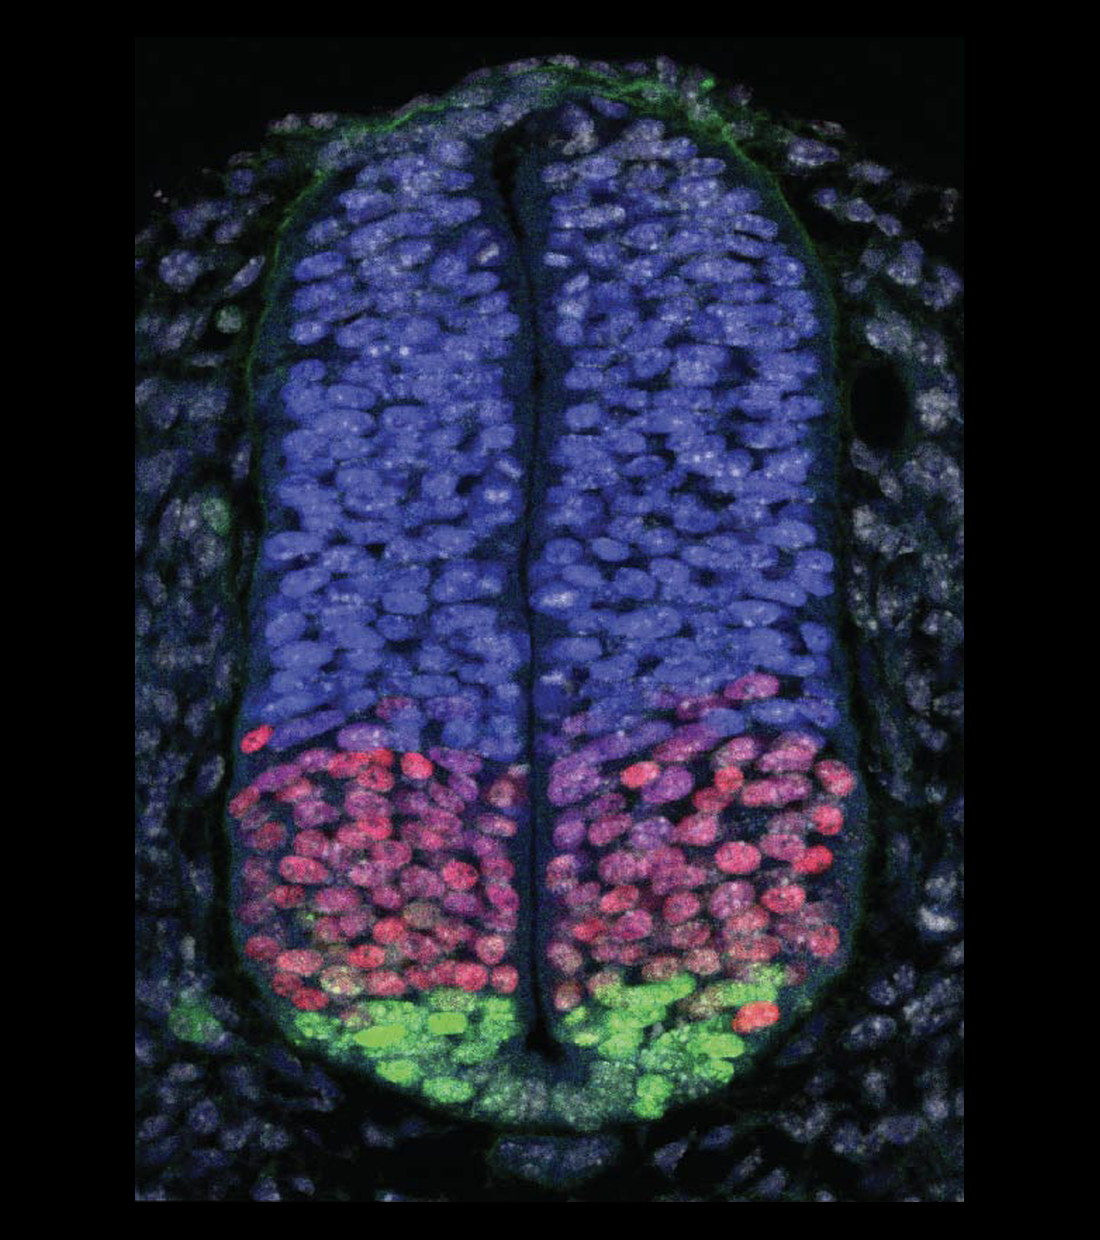
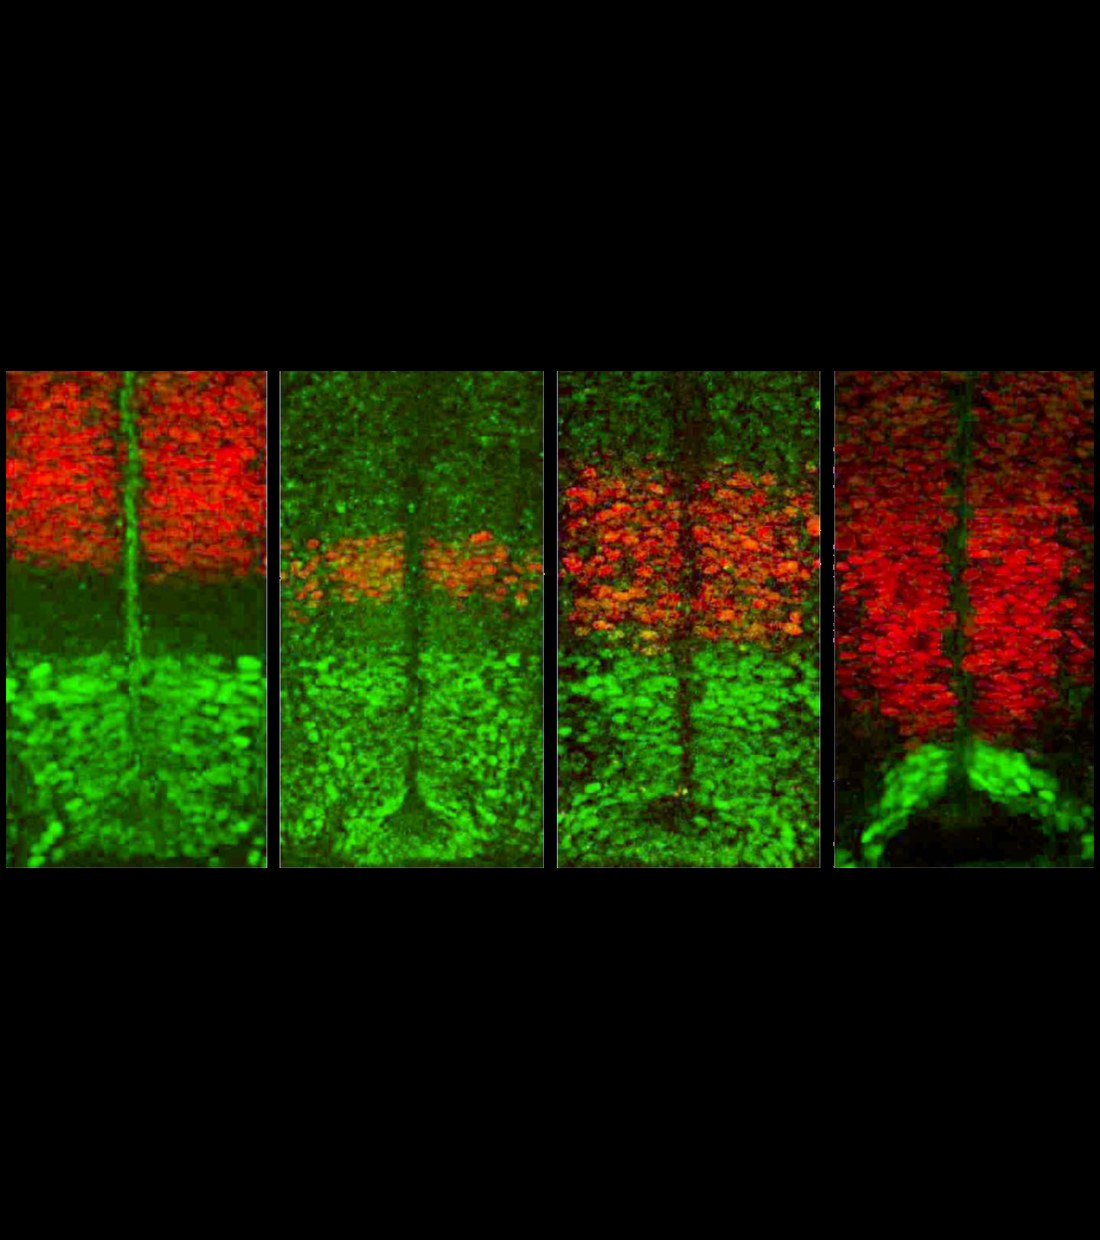
Homepage: cross-fading hero with wrapping drift, stronger scroll reveal
- hero cycles four dark-field frames, each tiled so the drift wraps seamlessly
- first frame rebuilt from the four-panel sections with equal black separators
- research cards lift on hover; sections rise further into view
- removed the interactive neural tube

diff --git a/index.html b/index.html
@@ -15,8 +15,42 @@
 <link rel="stylesheet" href="assets/style.css">
 </head>
 <body>
-<a class="skip" href="#main">Skip to content</a><header><div class="bar"><a class="mark brand" href="index.html"><img class="mark-logo" src="images/logo-176.png" alt="" width="150" height="176"><span>Briscoe Lab<em>Developmental Dynamics of Tissue Formation</em></span></a><button class="burger" id="burger" aria-expanded="false" aria-controls="nav">Menu</button><nav id="nav" aria-label="Main"><ul><li class="dd"><a href="research.html">Research</a><ul><li><a href="research-gene-regulatory-networks.html">Gene regulatory networks</a></li><li><a href="research-gene-regulation.html">Gene regulation</a></li><li><a href="research-tempo-growth-and-lineage.html">Tempo, growth and lineage</a></li><li><a href="research-stem-cells-and-bioengineering.html">Stem cells and bioengineering</a></li><li><a href="research-computational-approaches.html">Computational approaches</a></li></ul></li><li class="dd"><a href="people.html">People</a><ul><li><a href="people.html">Current members</a></li><li><a href="alumni.html">Alumni</a></li></ul></li><li><a href="publications.html">Publications</a></li><li><a href="resources.html">Resources</a></li><li><a href="join-us.html">Join us</a></li><li><a href="blog.html">Blog</a></li><li><a href="contact.html">Contact</a></li></ul></nav></div></header><main id="main"><div class="hero"><picture><source media="(max-width:700px)" srcset="images/hero-mobile.jpg"><source srcset="images/hero-1280.jpg 1280w, images/hero.jpg 2560w" sizes="100vw"><img src="images/hero.jpg" alt="Transverse section through the neural tube of an embryonic day 9.5 mouse. Three greyscale channels resolve into a merged image showing Pax6 in blue, Olig2 in red and Nkx2.2 in green, arranged in bands along the dorsal to ventral axis" width="2560" height="948"></picture><div class="veil"></div><div class="in"><div class="wrap"><div style="max-width:620px"><h1>How does an embryo build a nervous system?</h1><p>We study how cells in a developing tissue acquire the right identity, in the right place, at the right time, and in the right numbers.</p><p style="margin:0"><a class="btn btn--light" href="research.html">Our research</a> <a class="btn btn--outline-light" href="join-us.html">Join the lab</a></p></div></div></div></div><section class="sec"><div class="wrap"><div class="prose"><p class="eyebrow">What we do</p><p class="lede">Our lab works on one of the fundamental questions in biology: how do cells in a developing tissue acquire the right identity, at the right place, at the right time, and in the right proportions?</p><p>We investigate how gene regulatory networks direct tissue formation, using the vertebrate spinal cord as our main model system. We combine developmental biology, genomics, bioengineering and computational modelling to understand how specific cell types are generated, how functional tissues are assembled, and how system-level properties such as pattern, tempo, precision and morphogenesis emerge from molecular mechanisms.</p><p>The goal is to explain neural tube formation across scales, from molecular mechanism to cell behaviour to tissue organisation. This is one of the grand challenges of systems developmental biology: reverse-engineering a developing tissue in enough detail to predict and control its formation. We now test that understanding by building. We design regulatory DNA to specification, produce morphogen gradients with light, and grow spinal cord tissue from stem cells.</p></div></div></section><section class="sec shell"><div class="wrap"><h2>Research</h2><p class="muted" style="margin-bottom:40px">Five connected questions, one tissue.</p><div class="grid g3"><article class="card"><img src="images/card-grn.jpg" alt="" loading="lazy" width="800" height="600"><div class="card-b"><h3>Gene regulatory networks</h3><p>Groups of transcription factors, wired into a network, decide which type of cell each neural progenitor becomes. We are mapping the network and asking how gradients of signals such as Sonic Hedgehog control it over time.</p><a class="go" href="research-gene-regulatory-networks.html">Read more &rarr;</a></div></article><article class="card"><img src="images/card-generegulation.jpg" alt="" loading="lazy" width="800" height="600"><div class="card-b"><h3>Gene regulation</h3><p>Cis-regulatory elements are the stretches of DNA that determine when and where genes switch on and off. We are working out the rules they follow and testing those rules by building new elements from scratch.</p><a class="go" href="research-gene-regulation.html">Read more &rarr;</a></div></article><article class="card"><img src="images/card-tempo.jpg" alt="" loading="lazy" width="800" height="600"><div class="card-b"><h3>Tempo, growth and lineage</h3><p>Development runs to a schedule and the schedule differs between species. We study what sets the pace, how the time of neuronal generation affects cell type and how lineage determines what each progenitor can make.</p><a class="go" href="research-tempo-growth-and-lineage.html">Read more &rarr;</a></div></article></div><div class="grid g3" style="margin-top:28px"><article class="card"><img src="images/card-stemcells.jpg" alt="" loading="lazy" width="800" height="600"><div class="card-b"><h3>Stem cells and bioengineering</h3><p>We build spinal cord tissue outside the embryo, from stem cells, then control the signals it receives. Reconstructing a tissue from its parts is the strongest test of whether we understand how embryos form.</p><a class="go" href="research-stem-cells-and-bioengineering.html">Read more &rarr;</a></div></article><article class="card"><img src="images/card-computational.jpg" alt="" loading="lazy" width="800" height="600"><div class="card-b"><h3>Computational approaches</h3><p>Embryos are dynamical systems. We build models that explain how cells choose fates, and methods that recover those dynamics from the data single-cell experiments produce.</p><a class="go" href="research-computational-approaches.html">Read more &rarr;</a></div></article></div></div></section><section class="sec"><div class="wrap"><div class="prose"><p class="eyebrow">Why it matters</p><p class="lede" style="margin:0">Answering these questions links genotype to phenotype and explains how structure relates to function in the nervous system. It also lays the foundations needed to engineer tissues, model disease and advance regenerative medicine.</p></div></div></section><section class="sec shell"><div class="wrap"><h2 style="margin-bottom:14px">Recent papers</h2><div class="pub"><div class="au">Maizels RJ, Briscoe J</div><div class="ti">Gene regulatory networks: from correlative models to causal explanations</div><div class="jr">Nature Reviews Genetics 27:485-498 (2026)</div></div><div class="pub"><div class="au">Stuart HT, Costantini E, Wang J, et al., Tanaka EM, Briscoe J</div><div class="ti">Minimal essential requirements for neural tube self-organisation</div><div class="jr">bioRxiv (2026)</div><div class="ln"><a class="tag" href="https://doi.org/10.64898/2026.06.06.730555">bioRxiv</a></div></div><div class="pub"><div class="au">Boezio GLM, Depotter JRL, Frith TJR, et al., Briscoe J</div><div class="ti">Hierarchical lineage architecture of human and avian spinal cord revealed by single-cell genomic barcoding</div><div class="jr">bioRxiv (2025)</div></div><div class="pub"><div class="au">Benzinger D, Briscoe J</div><div class="ti">Investigating morphogen and patterning dynamics with optogenetic control of morphogen production</div><div class="jr">Developmental Cell 60:3421-3430 (2025)</div></div><p style="margin-top:26px"><a href="publications.html">All 121 publications &rarr;</a></p></div></section><section class="sec"><div class="wrap"><div class="grid g2" style="gap:56px;align-items:center"><img src="images/group-photo.jpg" alt="Members of the Briscoe lab standing together outdoors in a garden, with trees and shrubs behind them" style="height:320px;width:100%;object-fit:cover;border-radius:6px" loading="lazy" width="808" height="468"><div><h2 style="margin-bottom:18px">Join us</h2><p>We are always interested in hearing from prospective PhD students and postdocs, whatever your background: wet lab, computational, physical or somewhere in between.</p><p style="margin:0"><a class="btn" href="join-us.html">How to apply</a></p></div></div></div></section></main>
+<a class="skip" href="#main">Skip to content</a><header><div class="bar"><a class="mark brand" href="index.html"><img class="mark-logo" src="images/logo-176.png" alt="" width="150" height="176"><span>Briscoe Lab<em>Developmental Dynamics of Tissue Formation</em></span></a><button class="burger" id="burger" aria-expanded="false" aria-controls="nav">Menu</button><nav id="nav" aria-label="Main"><ul><li class="dd"><a href="research.html">Research</a><ul><li><a href="research-gene-regulatory-networks.html">Gene regulatory networks</a></li><li><a href="research-gene-regulation.html">Gene regulation</a></li><li><a href="research-tempo-growth-and-lineage.html">Tempo, growth and lineage</a></li><li><a href="research-stem-cells-and-bioengineering.html">Stem cells and bioengineering</a></li><li><a href="research-computational-approaches.html">Computational approaches</a></li></ul></li><li class="dd"><a href="people.html">People</a><ul><li><a href="people.html">Current members</a></li><li><a href="alumni.html">Alumni</a></li></ul></li><li><a href="publications.html">Publications</a></li><li><a href="resources.html">Resources</a></li><li><a href="join-us.html">Join us</a></li><li><a href="blog.html">Blog</a></li><li><a href="contact.html">Contact</a></li></ul></nav></div></header><main id="main"><div class="hero" id="hero"><div class="hero-frame is-on"><div class="hero-track"><picture><source media="(max-width:700px)" srcset="images/hero-mobile.jpg"><source srcset="images/hero-1280.jpg 1280w, images/hero.jpg 2560w" sizes="100vw"><img src="images/hero.jpg" alt="Transverse sections of the neural tube showing progenitors expressing a combination of transcription factors including Pax6, Nkx6.1, Nkx2.2, Dbx1 and Dbx2." width="2560" height="1156"></picture><picture aria-hidden="true"><source media="(max-width:700px)" srcset="images/hero-mobile.jpg"><source srcset="images/hero-1280.jpg 1280w, images/hero.jpg 2560w" sizes="100vw"><img src="images/hero.jpg" alt="Transverse sections of the neural tube showing progenitors expressing a combination of transcription factors including Pax6, Nkx6.1, Nkx2.2, Dbx1 and Dbx2." width="2560" height="1156"></picture></div></div><div class="hero-frame"><div class="hero-track"><img data-src="images/hero-2.jpg" alt="" width="1920" height="711" decoding="async"><img data-src="images/hero-2.jpg" alt="" width="1920" height="711" decoding="async" aria-hidden="true"></div></div><div class="hero-frame"><div class="hero-track"><img data-src="images/hero-3.jpg" alt="" width="1920" height="711" decoding="async"><img data-src="images/hero-3.jpg" alt="" width="1920" height="711" decoding="async" aria-hidden="true"></div></div><div class="hero-frame"><div class="hero-track"><img data-src="images/hero-4.jpg" alt="" width="1920" height="711" decoding="async"><img data-src="images/hero-4.jpg" alt="" width="1920" height="711" decoding="async" aria-hidden="true"></div></div><div class="veil"></div><div class="in"><div class="wrap"><div style="max-width:620px"><h1>How does an embryo build a nervous system?</h1><p>We study how cells in a developing tissue acquire the right identity, in the right place, at the right time, and in the right numbers.</p><p style="margin:0"><a class="btn btn--light" href="research.html">Our research</a> <a class="btn btn--outline-light" href="join-us.html">Join the lab</a></p></div></div></div></div><section class="sec reveal"><div class="wrap"><div class="prose"><p class="eyebrow">What we do</p><p class="lede">Our lab works on one of the fundamental questions in biology: how do cells in a developing tissue acquire the right identity, at the right place, at the right time, and in the right proportions?</p><p>We investigate how gene regulatory networks direct tissue formation, using the vertebrate spinal cord as our main model system. We combine developmental biology, genomics, bioengineering and computational modelling to understand how specific cell types are generated, how functional tissues are assembled, and how system-level properties such as pattern, tempo, precision and morphogenesis emerge from molecular mechanisms.</p><p>The goal is to explain neural tube formation across scales, from molecular mechanism to cell behaviour to tissue organisation. This is one of the grand challenges of systems developmental biology: reverse-engineering a developing tissue in enough detail to predict and control its formation. We now test that understanding by building. We design regulatory DNA to specification, produce morphogen gradients with light, and grow spinal cord tissue from stem cells.</p></div></div></section><section class="sec shell reveal"><div class="wrap"><h2>Research</h2><p class="muted" style="margin-bottom:40px">Five connected questions, one tissue.</p><div class="grid g3"><article class="card"><img src="images/card-grn.jpg" alt="" loading="lazy" width="800" height="600"><div class="card-b"><h3>Gene regulatory networks</h3><p>Groups of transcription factors, wired into a network, decide which type of cell each neural progenitor becomes. We are mapping the network and asking how gradients of signals such as Sonic Hedgehog control it over time.</p><a class="go" href="research-gene-regulatory-networks.html">Read more &rarr;</a></div></article><article class="card"><img src="images/card-generegulation.jpg" alt="" loading="lazy" width="800" height="600"><div class="card-b"><h3>Gene regulation</h3><p>Cis-regulatory elements are the stretches of DNA that determine when and where genes switch on and off. We are working out the rules they follow and testing those rules by building new elements from scratch.</p><a class="go" href="research-gene-regulation.html">Read more &rarr;</a></div></article><article class="card"><img src="images/card-tempo.jpg" alt="" loading="lazy" width="800" height="600"><div class="card-b"><h3>Tempo, growth and lineage</h3><p>Development runs to a schedule and the schedule differs between species. We study what sets the pace, how the time of neuronal generation affects cell type and how lineage determines what each progenitor can make.</p><a class="go" href="research-tempo-growth-and-lineage.html">Read more &rarr;</a></div></article></div><div class="grid g3" style="margin-top:28px"><article class="card"><img src="images/card-stemcells.jpg" alt="" loading="lazy" width="800" height="600"><div class="card-b"><h3>Stem cells and bioengineering</h3><p>We build spinal cord tissue outside the embryo, from stem cells, then control the signals it receives. Reconstructing a tissue from its parts is the strongest test of whether we understand how embryos form.</p><a class="go" href="research-stem-cells-and-bioengineering.html">Read more &rarr;</a></div></article><article class="card"><img src="images/card-computational.jpg" alt="" loading="lazy" width="800" height="600"><div class="card-b"><h3>Computational approaches</h3><p>Embryos are dynamical systems. We build models that explain how cells choose fates, and methods that recover those dynamics from the data single-cell experiments produce.</p><a class="go" href="research-computational-approaches.html">Read more &rarr;</a></div></article></div></div></section><section class="sec reveal"><div class="wrap"><div class="prose"><p class="eyebrow">Why it matters</p><p class="lede" style="margin:0">Answering these questions links genotype to phenotype and explains how structure relates to function in the nervous system. It also lays the foundations needed to engineer tissues, model disease and advance regenerative medicine.</p></div></div></section><section class="sec shell reveal"><div class="wrap"><h2 style="margin-bottom:14px">Recent papers</h2><div class="pub"><div class="au">Maizels RJ, Briscoe J</div><div class="ti">Gene regulatory networks: from correlative models to causal explanations</div><div class="jr">Nature Reviews Genetics 27:485-498 (2026)</div></div><div class="pub"><div class="au">Stuart HT, Costantini E, Wang J, et al., Tanaka EM, Briscoe J</div><div class="ti">Minimal essential requirements for neural tube self-organisation</div><div class="jr">bioRxiv (2026)</div><div class="ln"><a class="tag" href="https://doi.org/10.64898/2026.06.06.730555">bioRxiv</a></div></div><div class="pub"><div class="au">Boezio GLM, Depotter JRL, Frith TJR, et al., Briscoe J</div><div class="ti">Hierarchical lineage architecture of human and avian spinal cord revealed by single-cell genomic barcoding</div><div class="jr">bioRxiv (2025)</div></div><div class="pub"><div class="au">Benzinger D, Briscoe J</div><div class="ti">Investigating morphogen and patterning dynamics with optogenetic control of morphogen production</div><div class="jr">Developmental Cell 60:3421-3430 (2025)</div></div><p style="margin-top:26px"><a href="publications.html">All 121 publications &rarr;</a></p></div></section><section class="sec reveal"><div class="wrap"><div class="grid g2" style="gap:56px;align-items:center"><img src="images/group-photo.jpg" alt="Members of the Briscoe lab standing together outdoors in a garden, with trees and shrubs behind them" style="height:320px;width:100%;object-fit:cover;border-radius:6px" loading="lazy" width="808" height="468"><div><h2 style="margin-bottom:18px">Join us</h2><p>We are always interested in hearing from prospective PhD students and postdocs, whatever your background: wet lab, computational, physical or somewhere in between.</p><p style="margin:0"><a class="btn" href="join-us.html">How to apply</a></p></div></div></div></section></main>
 <footer><div class="wrap"><div class="grid g3" style="gap:44px"><div><img src="images/logo-176.png" alt="" width="150" height="176" style="height:64px;width:auto;margin-bottom:14px"><div class="fm">Briscoe Lab</div><p style="color:#8D8C8C;font-size:14.5px;margin-bottom:16px">Developmental Dynamics of Tissue Formation</p><p style="color:#8D8C8C;font-size:14px;line-height:1.7;margin:0">The Francis Crick Institute<br>1 Midland Road, London NW1 1AT</p></div><div><h2>Site</h2><ul><li><a href="research.html">Research</a></li><li><a href="people.html">People</a></li><li><a href="publications.html">Publications</a></li><li><a href="resources.html">Resources</a></li><li><a href="join-us.html">Join us</a></li><li><a href="blog.html">Blog</a></li><li><a href="contact.html">Contact</a></li></ul></div><div><h2>Elsewhere</h2><ul><li><a href="https://www.crick.ac.uk/research/labs/james-briscoe">Crick profile</a></li><li><a href="https://scholar.google.co.uk/citations?user=VJ83sekAAAAJ&amp;hl=en">Google Scholar</a></li><li><a href="https://orcid.org/0000-0002-1020-5240">ORCID</a></li><li><a href="https://github.com/briscoelab">GitHub</a></li></ul></div></div><p class="funding">Work in the lab is funded by the Francis Crick Institute, which receives its core funding from Cancer Research UK, the UK Medical Research Council and Wellcome. In addition, specific projects are funded by other organisations including the European Research Council, EMBO, BBSRC, and the Boehringer Ingelheim Foundation.</p><div class="fbar"><div>&copy; 2026 Briscoe Lab</div><div><a href="https://www.crick.ac.uk">The Francis Crick Institute</a></div></div></div></footer>
 <script>(function(){var b=document.getElementById('burger'),n=document.getElementById('nav');if(!b)return;b.addEventListener('click',function(){var o=n.classList.toggle('open');b.setAttribute('aria-expanded',o?'true':'false')})})();</script>
+<script>
+(function(){
+ var els=[].slice.call(document.querySelectorAll('.reveal'));
+ if(!els.length) return;
+ if(!('IntersectionObserver' in window) ||
+    window.matchMedia('(prefers-reduced-motion: reduce)').matches){
+  els.forEach(function(e){e.classList.add('in')}); return;
+ }
+ var io=new IntersectionObserver(function(en){
+  en.forEach(function(x){ if(x.isIntersecting){ x.target.classList.add('in'); io.unobserve(x.target); } });
+ },{rootMargin:'0px 0px -8% 0px',threshold:0.06});
+ els.forEach(function(e){io.observe(e)});
+})();
+</script>
+<script>
+(function(){
+ var h=document.getElementById('hero'); if(!h) return;
+ var f=[].slice.call(h.querySelectorAll('.hero-frame'));
+ if(f.length<2) return;
+ if(window.matchMedia('(prefers-reduced-motion: reduce)').matches) return;
+ if(window.matchMedia('(max-width:700px)').matches) return;
+ var i=0, t=null, ready=false;
+ function load(){
+  if(ready) return; ready=true;
+  h.querySelectorAll('img[data-src]').forEach(function(el){ el.src=el.getAttribute('data-src'); el.removeAttribute('data-src'); });
+ }
+ function step(){ f[i].classList.remove('is-on'); i=(i+1)%f.length; f[i].classList.add('is-on'); }
+ function start(){ if(!t) t=setInterval(step,7000); }
+ function stop(){ if(t){ clearInterval(t); t=null; } }
+ function go(){ load(); setTimeout(start,1500); }
+ if(document.readyState==='complete') go(); else window.addEventListener('load',go);
+ document.addEventListener('visibilitychange',function(){ document.hidden?stop():(ready&&start()); });
+})();
+</script>
 </body>
 </html>

diff --git a/assets/style.css b/assets/style.css
@@ -95,8 +95,39 @@ nav a[aria-current="page"],nav a.on{color:var(--accent);background:var(--shell)}
 .g2{grid-template-columns:repeat(2,minmax(0,1fr))}
 .g3{grid-template-columns:repeat(3,minmax(0,1fr))}
 .g4{grid-template-columns:repeat(4,minmax(0,1fr))}
-.card{border:1px solid var(--line);border-radius:8px;overflow:hidden;background:#fff;display:flex;flex-direction:column}
-.card>img{height:180px;width:100%;object-fit:cover}
+.card{border:1px solid var(--line);border-radius:8px;overflow:hidden;background:#fff;display:flex;flex-direction:column;
+  transition:transform .28s ease,box-shadow .28s ease,border-color .28s ease}
+.card:hover{transform:translateY(-3px);box-shadow:0 10px 26px rgba(20,24,28,.09);border-color:#D6D2D1}
+.card>img{height:180px;width:100%;object-fit:cover;transition:transform .55s ease}
+.card:hover>img{transform:scale(1.045)}
+
+/* sections rise into view; the reduced-motion block below disables this */
+.reveal{opacity:0;transform:translateY(38px) scale(.985);
+  transition:opacity .78s cubic-bezier(.16,.7,.28,1),transform .78s cubic-bezier(.16,.7,.28,1)}
+.reveal.in{opacity:1;transform:none}
+@media (prefers-reduced-motion: reduce){.reveal{opacity:1;transform:none}}
+
+/* Cross-fading hero frames that drift continuously.
+   Each frame holds two copies of its image side by side in a track. The track
+   travels exactly one image width and repeats, so the second copy lands where the
+   first began and the loop is invisible. The images have their left and right
+   edges faded to black, so the join between copies cannot be seen. */
+@keyframes heroWrap{from{transform:translateX(0)}to{transform:translateX(-50%)}}
+.hero-frame{position:absolute;inset:0;overflow:hidden;opacity:0;transition:opacity 1.9s ease-in-out}
+.hero-frame.is-on{opacity:1}
+.hero-track{position:absolute;top:0;left:0;height:100%;width:200%;display:flex}
+.hero-track>*{width:50%;height:100%;flex:none;position:relative}
+.hero-track img{width:100%;height:100%;object-fit:cover;display:block}
+@media (prefers-reduced-motion: no-preference){
+  .hero-track{animation:heroWrap 90s linear infinite;will-change:transform}
+}
+@media (max-width:700px){.hero .hero-frame:not(:first-child){display:none}}
+@media (prefers-reduced-motion: reduce){
+  .hero .hero-frame:not(:first-child){display:none}
+  .hero .hero-frame:first-child{opacity:1}
+  .hero-track{width:100%}
+  .hero-track>*:last-child{display:none}
+}
 .card-b{padding:22px;flex:1;display:flex;flex-direction:column}
 .card h3,.card h4{margin-bottom:9px}
 .card p{font-size:15.5px;line-height:1.55;color:var(--muted);margin-bottom:14px;flex:1}
@@ -150,6 +181,21 @@ a.tag{border-bottom:1px solid var(--line)}
 .yearhead{font-family:var(--serif);font-size:22px;font-weight:600;margin:34px 0 4px;
   padding-bottom:8px;border-bottom:2px solid var(--ink);max-width:820px}
 .note{border-left:3px solid var(--highlight);padding-left:18px;font-size:15px;color:var(--muted)}
+
+/* ---------- interactive neural tube ---------- */
+.ntube{display:grid;grid-template-columns:300px 1fr;gap:44px;align-items:center;max-width:900px}
+.ntube svg{width:100%;height:auto;display:block}
+.ntube-ctl{margin-bottom:26px}
+.ntube-ctl label{display:block;font-size:14px;font-weight:600;margin-bottom:2px}
+.ntube-ctl .hint{font-size:13.5px;color:var(--muted);margin-bottom:10px}
+.ntube-ctl input[type=range]{width:100%;accent-color:var(--accent);height:24px}
+.ntube-read{font-size:14.5px;line-height:1.6;border-left:3px solid var(--accent);
+  padding-left:16px;color:var(--ink);min-height:52px}
+.ntube-read b{font-weight:600}
+.ntube-key{display:flex;flex-wrap:wrap;gap:7px 14px;margin-top:16px;font-size:13px;color:var(--muted)}
+.ntube-key span{display:flex;align-items:center;gap:6px}
+.ntube-key i{width:11px;height:11px;border-radius:2px;display:inline-block}
+@media(max-width:760px){.ntube{grid-template-columns:1fr;gap:28px;max-width:420px}}
 
 /* ---------- blog ---------- */
 .post-meta{font-size:15px;color:var(--muted);margin-bottom:26px}
